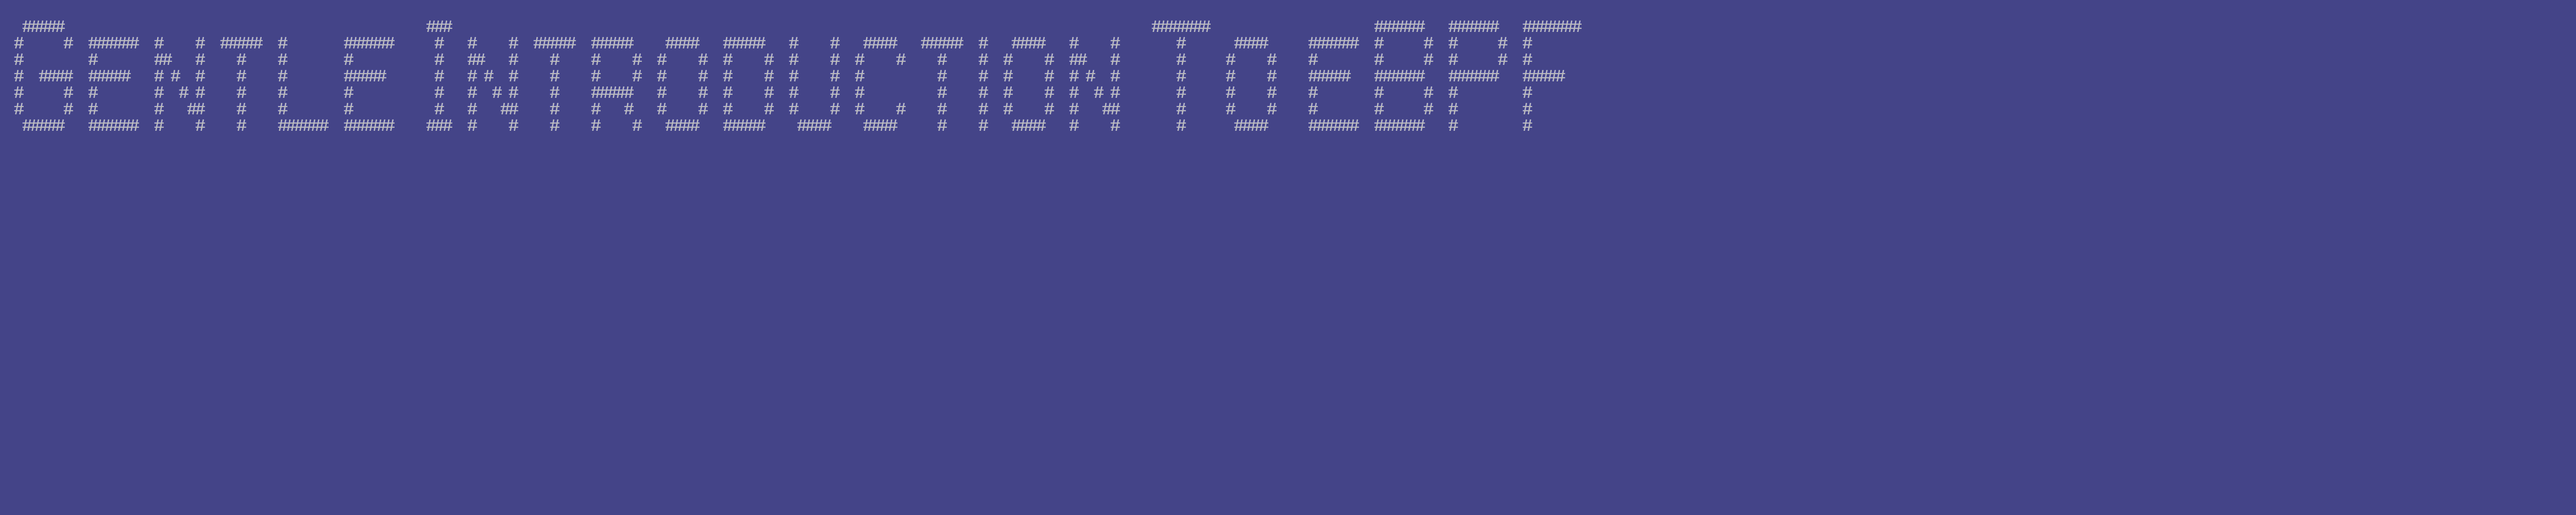
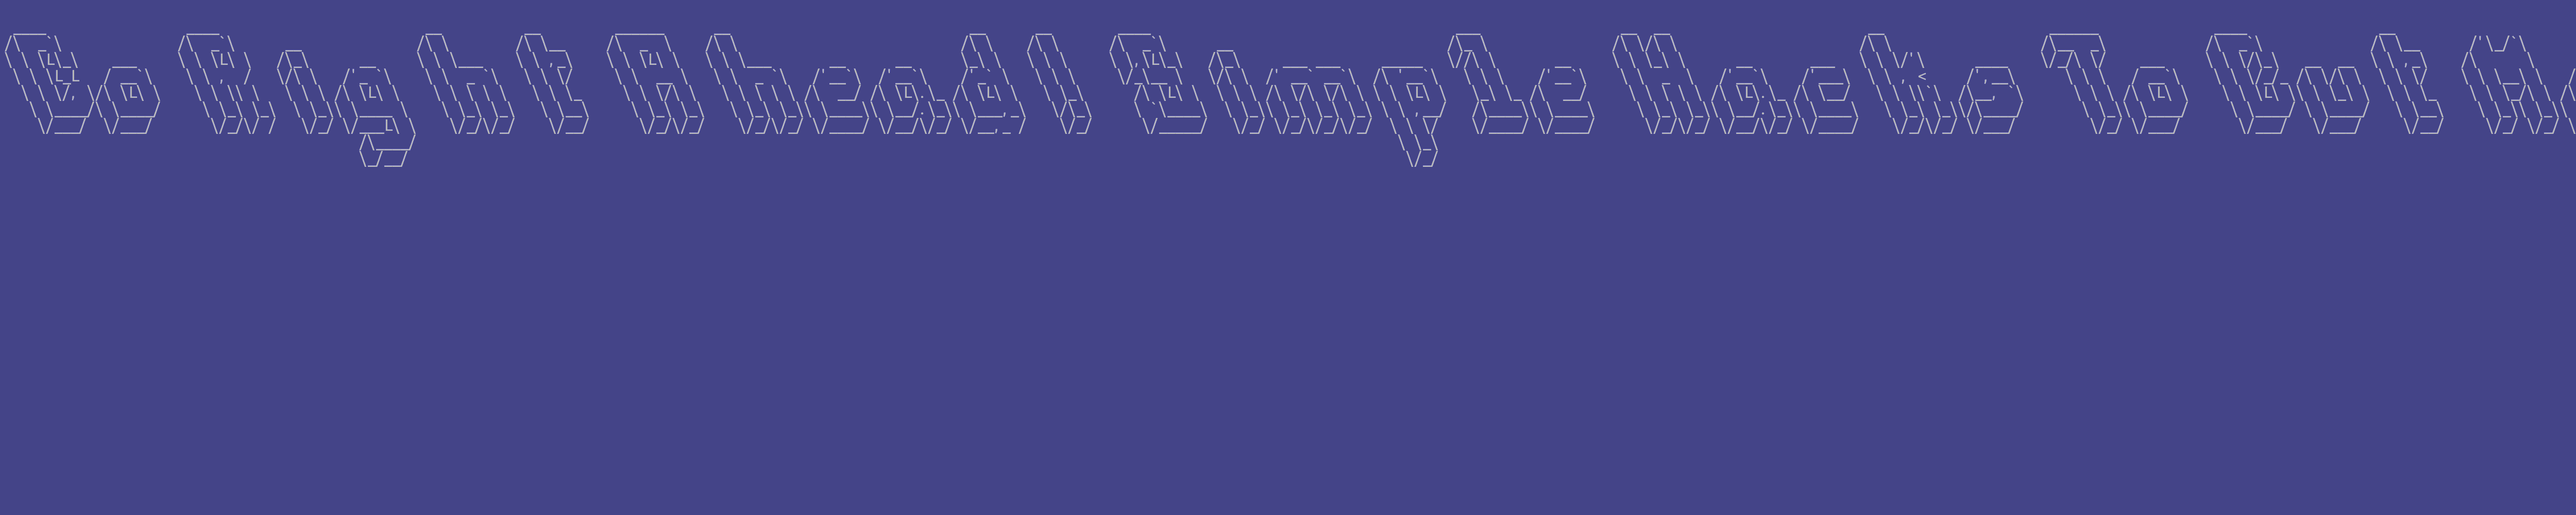
delay parameter and more examples

diff --git a/main.go b/main.go
@@ -33,6 +33,8 @@ func main() {
 	banner := flag.Bool("banner", false, "if true it's a banner gif, else it's a picture")
 	blink := flag.Bool("blink", false, "if true it's a plain blinking gif, else it's a picture")
 	alt := flag.Bool("alt", false, "if true it's a alternating colors blinking gif, else it's a picture")
+	delay := flag.Int("delay", 0, "used with '-banner, '-blink' or '-alt', it indicates the delay between each frame of the gif")
+
 	flag.Parse()
 
 	asciiArtLines := prepareText(strings.Join(flag.Args(), " "), *figlet)
@@ -47,13 +49,22 @@ func main() {
 	switch {
 	case *banner:
 		images := makeBanner(asciiArtLines, lImg, hImg, *bgColorHex, *fgColorHex, *fontPath, *fontSize, *xPtFactor, *yPtFactor)
-		writeGif(images, 5, *path)
+		if *delay == 0 {
+			*delay = 5
+		}
+		writeGif(images, *delay, *path)
 	case *blink:
 		images := makeBlink(asciiArtLines, lImg, hImg, *bgColorHex, *fgColorHex, *fontPath, *fontSize, *xPtFactor, *yPtFactor)
-		writeGif(images, 75, *path)
+		if *delay == 0 {
+			*delay = 75
+		}
+		writeGif(images, *delay, *path)
 	case *alt:
 		images := makeAlt(asciiArtLines, lImg, hImg, *bgColorHex, *fgColorHex, *fontPath, *fontSize, *xPtFactor, *yPtFactor)
-		writeGif(images, 75, *path)
+		if *delay == 0 {
+			*delay = 100
+		}
+		writeGif(images, *delay, *path)
 	default:
 		image := makePng(asciiArtLines, lImg, hImg, *bgColorHex, *fgColorHex, *fontPath, *fontSize, *xPtFactor, *yPtFactor)
 		writePng(image, *path)

diff --git a/README.md b/README.md
@@ -19,6 +19,10 @@ This is the flag list:
 - yPtFactor: this number is a factor used to determine the height of the character box for each character. It is used to adjust the alignment of each character of the ASCII art text drawn.
 - o: name of the output image
 - figlet: name of the figlet font: figlets are fonts used to convert text into ASCII art. See https://github.com/common-nighthawk/go-figure/tree/master/fonts for the possible values and http://www.figlet.org/examples.html to see examples of what are the effects of these fonts.
+- banner: if set to true it will produce a gif of a banner that shows the text sliding on the background, if false it will produce a png.
+- blink: if set to true it will produce a gif of the text blinking on the background, if false it will produce a png.
+- alt: if set to true it will produce a gif of the text blinking and switching colors with the background, if false it will produce a png.
+- delay: used with `banner`, `blink` or `alt`, it indicates the delay between each frame of the gif.
 
 These flags can be listed using the `--help` flag.
 
@@ -32,10 +36,10 @@ Here are some examples with the commands run to create them:
 2. go run main.go -o examples/talk2.png -figlet banner3 -bgHex 0xabc -fgHex 0x000 Towards Modern Development of Cloud Applications With Service Weaver
 ![Example 2](./examples/talk2.png)
 
-3. go run main.go -o examples/talk3.png -figlet banner -l 5000 -h 1000 Gentle Introduction To eBPF
+3. go run main.go -o examples/talk3.png -figlet larry3d -l 5000 -h 1000 Go Right Ahead! Simple Hacks To Cut Memory Usage by 80%
 ![Example 3](./examples/talk3.png)
 
-4. go run main.go -o examples/talk4.png -fontSize=48 -figlet larry3d -bgHex 0xc9c -fgHex 0x000 Go Right Ahead! Simple Hacks To Cut Memory Usage by 80%
+4. go run main.go -o examples/talk4.png -fontSize=48 -figlet banner -bgHex 0xc9c -fgHex 0x000 Gentle Introduction To eBPF
 ![Example 4](./examples/talk4.png)
 
 5. go run main.go -o examples/talk5.png -figlet roman -bgHex 0xabc -fgHex 0x000 Go Right Ahead! Simple Hacks To Cut Memory Usage by 80%
@@ -50,16 +54,25 @@ Here are some examples with the commands run to create them:
 8. go run main.go -o examples/talk8.png -figlet dotmatrix -bgHex 0x500 -fgHex 0xeee Coffee Break 
 ![Example 8](./examples/talk8.png)
 
+9. go run main.go -o examples/talk9.png -figlet stellar -bgHex 0x121 -fgHex 0xfff Useful Functional-Options Tricks For Better Libraries
+![Example 9](./examples/talk9.png)
+
+10. go run main.go -o examples/talk10.png -figlet speed -fgHex 0xdad GoTime Podcast Live
+![Example 10](./examples/talk10.png)
+
 ### Banner Gif
 
-1. go run main.go -o examples/talk.gif -gif Go Beyond the Console: Developing 2D Games With Go
+1. go run main.go -o examples/talk.gif -banner -delay 5 Go Beyond the Console: Developing 2D Games With Go
 ![Example 1](./examples/talk.gif)
 
-2. go run main.go -o examples/talk2.gif -banner -bgHex 0xada -fgHex 0x121 Why Integration Tests Might Be Better Than Unit Tests
+2. go run main.go -o examples/talk2.gif -banner -delay 5 -bgHex 0xada -fgHex 0x121 Why Integration Tests Might Be Better Than Unit Tests
 ![Example 2](./examples/talk2.gif)
 
-3. go run main.go -o examples/talk4.gif -figlet cosmic -banner -bgHex 0x044 Reaching the Unix Philosophys Logical Extreme With WebAssembly
+3. go run main.go -o examples/talk4.gif -figlet cosmic -banner -delay 10 -bgHex 0x044 Reaching the Unix Philosophys Logical Extreme With WebAssembly
 ![Example 3](./examples/talk4.gif)
+
+4. go run main.go -o examples/talk8.gif -figlet smkeyboard -banner -delay 15 Panel With the Go Team
+![Example 4](./examples/talk8.gif)
 
 ### Blinking Gif
 
@@ -74,5 +87,5 @@ Here are some examples with the commands run to create them:
 2. go run main.go -o examples/talk6.gif -figlet computer -alt -bgHex 0xabc -fgHex 0x000 API Optimization Tale: Monitor, Fix and Deploy
 ![Example 2](./examples/talk6.gif)
 
-3. go run main.go -o examples/talk7.gif -figlet isometric3 -alt -bgHex 0x500 -fgHex 0xeee Coffee Break
+3. go run main.go -o examples/talk7.gif -figlet isometric3 -alt -delay 150 -bgHex 0x959 -fgHex 0x111 Coffee Break
 ![Example 3](./examples/talk7.gif)
